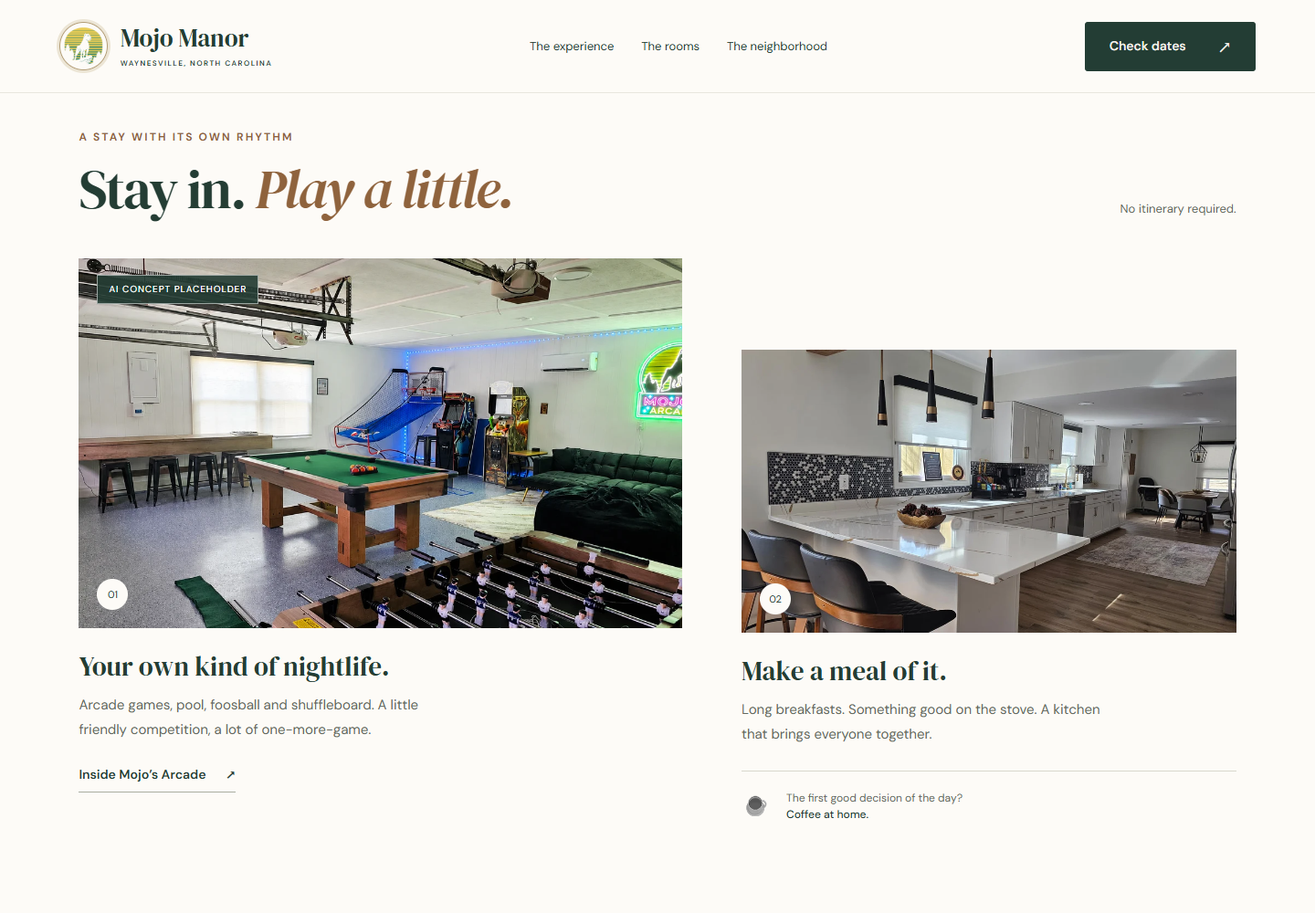
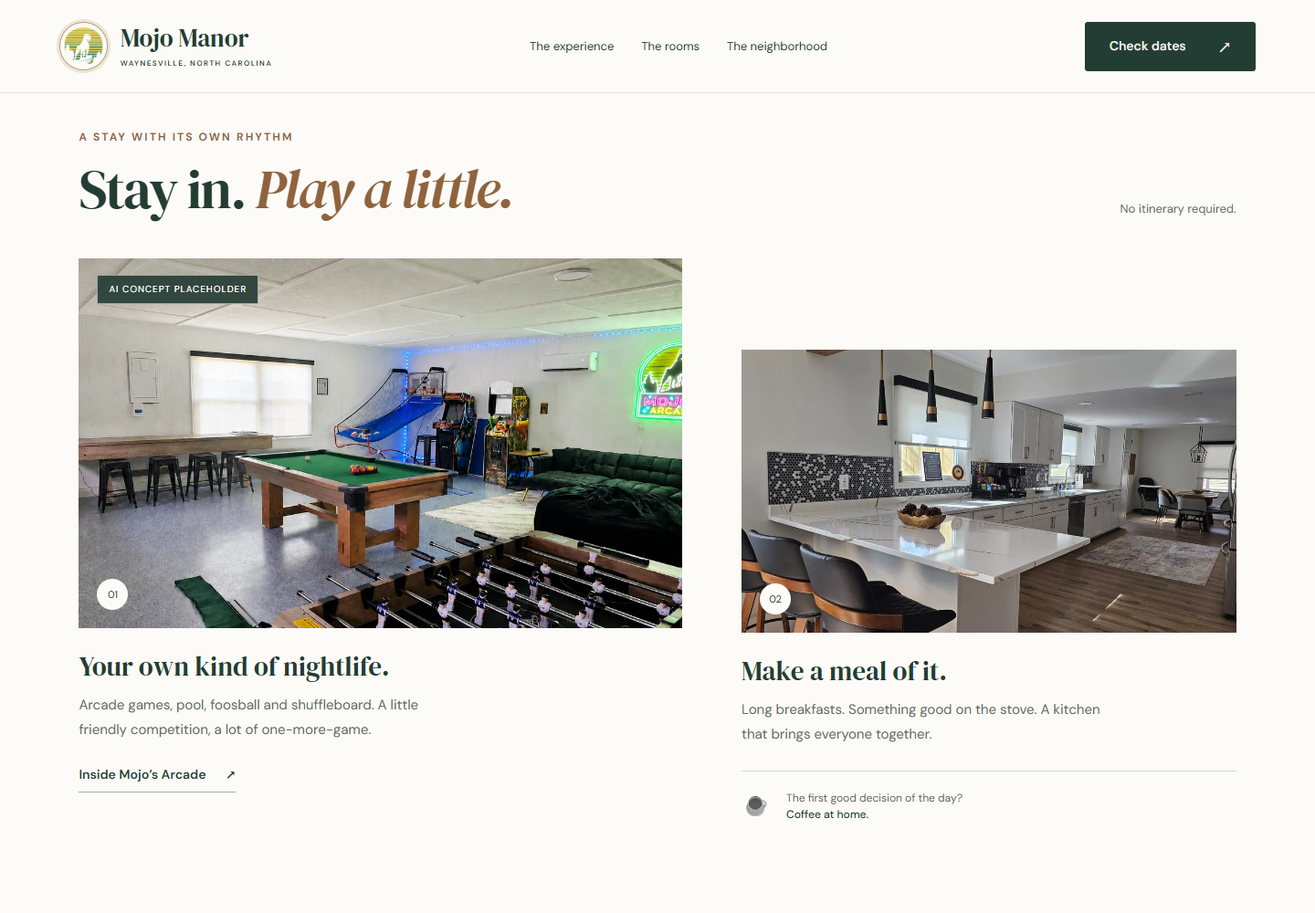
design: remove ceiling opener hardware from arcade concept

diff --git a/index.html b/index.html
@@ -26,7 +26,7 @@
 <section class="hero" id="hero"><div class="hero-copy"><p class="eyebrow"><span class="tiny-star">✳</span> YOUR WAYNESVILLE GETAWAY</p><h1>Mountain days.<br><em>Manor nights.</em></h1><p class="hero-description">A modern cabin house with a playful soul.<br>One mile from downtown. A world of good times at home.</p><button class="button button-dark hero-cta" data-book>Find your dates <span aria-hidden="true">↗</span></button><a class="text-link" href="#gallery">Take a look around <span aria-hidden="true">↓</span></a><div class="hero-note"><span class="line-art" aria-hidden="true">⌂</span><p>ALL YOURS, ALL STAY.<br><strong>4 bedrooms · up to 10 guests</strong></p></div></div><div class="hero-visual"><img class="hero-image" src="Images/redesign/living-1200.webp" srcset="Images/redesign/living-640.webp 640w, Images/redesign/living-1200.webp 1200w, Images/redesign/living-1600.webp 1600w" sizes="(max-width: 850px) 100vw, 61vw" width="1600" height="900" alt="The real front living room at Mojo Manor, with cream sectional, green chairs and wood-slat wall" fetchpriority="high" decoding="async"><span class="image-index">01 / A LITTLE MORE YOU</span><button class="photo-pill" data-gallery-open="0"><span aria-hidden="true">▦</span> Explore the house</button><span class="vertical-note">A HOME WITH PERSONALITY</span></div></section>
 <div class="facts-strip" aria-label="Property highlights"><span><b>4</b> BEDROOMS</span><span><b>2.5</b> BATHROOMS</span><span><b>10</b> GUESTS</span><span><b>1 mi</b> TO DOWNTOWN</span><span class="dog-fact"><img src="Images/redesign/mojo-crest.png" alt="" width="32" height="32"> DOGS WELCOME</span></div>
 <section class="intro section-wrap" id="the-house"><p class="eyebrow">THE BEST OF BOTH WORLDS</p><div class="intro-grid"><h2>Out there, the mountains.<br><em>In here, your people.</em></h2><div><p>Head out for a mountain day. Wander into town for dinner. Come back to a home where the evening is its own adventure.</p><p>Two living rooms, a kitchen made for gathering, your own arcade and a backyard full of possibilities. Thoughtfully renovated. Wonderfully easy to settle into.</p></div></div></section>
-<section class="experience section-wrap" id="experience"><div class="section-heading"><div><p class="eyebrow">A STAY WITH ITS OWN RHYTHM</p><h2>Stay in. <em>Play a little.</em></h2></div><span class="section-aside">No itinerary required.</span></div><div class="experience-grid"><article class="experience-feature"><div class="image-frame"><img class="" src="Images/redesign/arcade-concept-1200.webp" srcset="Images/redesign/arcade-concept-640.webp 640w, Images/redesign/arcade-concept-1200.webp 1200w, Images/redesign/arcade-concept-1600.webp 1600w" sizes="(max-width: 700px) 100vw, 55vw" width="1600" height="900" alt="AI concept placeholder: the real arcade with its pool table uncovered and ready for play" loading="lazy" decoding="async"><span class="photo-number">01</span><span class="concept-label" style="left:20px;top:18px">AI CONCEPT PLACEHOLDER</span></div><div class="feature-caption"><h3>Your own kind of nightlife.</h3><p>Arcade games, pool, foosball and shuffleboard. A little friendly competition, a lot of one-more-game.</p><button class="text-link" data-gallery-open="10">Inside Mojo’s Arcade <span aria-hidden="true">↗</span></button></div></article><article class="experience-secondary"><div class="image-frame"><img class="" src="Images/redesign/kitchen-1200.webp" srcset="Images/redesign/kitchen-640.webp 640w, Images/redesign/kitchen-1200.webp 1200w, Images/redesign/kitchen-1600.webp 1600w" sizes="(max-width: 700px) 100vw, 55vw" width="1600" height="900" alt="Mojo Manor kitchen island with quartz worktop and pendant lights" loading="lazy" decoding="async"><span class="photo-number">02</span></div><div class="feature-caption"><h3>Make a meal of it.</h3><p>Long breakfasts. Something good on the stove. A kitchen that brings everyone together.</p></div><div class="coffee-note"><span aria-hidden="true">☕</span><p>The first good decision of the day?<br><strong>Coffee at home.</strong></p></div></article></div></section>
+<section class="experience section-wrap" id="experience"><div class="section-heading"><div><p class="eyebrow">A STAY WITH ITS OWN RHYTHM</p><h2>Stay in. <em>Play a little.</em></h2></div><span class="section-aside">No itinerary required.</span></div><div class="experience-grid"><article class="experience-feature"><div class="image-frame"><img class="" src="Images/redesign/arcade-concept-v2-1200.webp" srcset="Images/redesign/arcade-concept-v2-640.webp 640w, Images/redesign/arcade-concept-v2-1200.webp 1200w, Images/redesign/arcade-concept-v2-1600.webp 1600w" sizes="(max-width: 700px) 100vw, 55vw" width="1600" height="900" alt="AI concept placeholder: the real arcade with its pool table uncovered and garage-door ceiling hardware digitally removed" loading="lazy" decoding="async"><span class="photo-number">01</span><span class="concept-label" style="left:20px;top:18px">AI CONCEPT PLACEHOLDER</span></div><div class="feature-caption"><h3>Your own kind of nightlife.</h3><p>Arcade games, pool, foosball and shuffleboard. A little friendly competition, a lot of one-more-game.</p><button class="text-link" data-gallery-open="10">Inside Mojo’s Arcade <span aria-hidden="true">↗</span></button></div></article><article class="experience-secondary"><div class="image-frame"><img class="" src="Images/redesign/kitchen-1200.webp" srcset="Images/redesign/kitchen-640.webp 640w, Images/redesign/kitchen-1200.webp 1200w, Images/redesign/kitchen-1600.webp 1600w" sizes="(max-width: 700px) 100vw, 55vw" width="1600" height="900" alt="Mojo Manor kitchen island with quartz worktop and pendant lights" loading="lazy" decoding="async"><span class="photo-number">02</span></div><div class="feature-caption"><h3>Make a meal of it.</h3><p>Long breakfasts. Something good on the stove. A kitchen that brings everyone together.</p></div><div class="coffee-note"><span aria-hidden="true">☕</span><p>The first good decision of the day?<br><strong>Coffee at home.</strong></p></div></article></div></section>
 <section class="evening" id="after-dark"><div class="evening-header section-wrap"><div><p class="eyebrow">WHEN THE DAY WINDS DOWN</p><h2>The best plans<br><em>are back at the Manor.</em></h2></div><div class="evening-switch" role="group" aria-label="Choose an evening scene"><button class="active" data-evening="hotTub" aria-pressed="true">The hot tub</button><button data-evening="firepit" aria-pressed="false">By the fire</button></div></div><div class="evening-photo"><img id="evening-image" src="Images/redesign/hotTub-concept-1600.webp" width="1600" height="900" loading="lazy" alt="AI concept placeholder: the existing hot tub opened, with blue underwater lighting and jets running"><span class="concept-label">AI CONCEPT PLACEHOLDER</span><div class="evening-caption"><span id="evening-number">03 / AFTER DARK</span><p id="evening-copy">Blue water. Warm lights.<br>Absolutely nowhere to be.</p></div><p class="photo-disclosure" id="evening-disclosure">Edited from the actual property photo. Open water and jets are generated; the owner confirms blue lighting.</p></div></section>
 <section class="gallery-section section-wrap" id="gallery"><div class="section-heading"><div><p class="eyebrow">MAKE YOURSELF AT HOME</p><h2>A house worth <em>getting to know.</em></h2></div><button class="text-link" data-gallery-open="0">Explore 19 real photos <span aria-hidden="true">↗</span></button></div><div class="editorial-gallery"><button class="gallery-main" data-gallery-open="2" aria-label="Open rear family room photo"><img class="" src="Images/redesign/family-1200.webp" srcset="Images/redesign/family-640.webp 640w, Images/redesign/family-1200.webp 1200w, Images/redesign/family-1600.webp 1600w" sizes="(max-width: 700px) 100vw, 55vw" width="1600" height="900" alt="The rear family room with fireplace, television and deck access" loading="lazy" decoding="async"><span>The other living room <i>↗</i></span></button><button data-gallery-open="13" aria-label="Open fenced backyard photo"><img class="" src="Images/redesign/yard-1200.webp" srcset="Images/redesign/yard-640.webp 640w, Images/redesign/yard-1200.webp 1200w, Images/redesign/yard-1600.webp 1600w" sizes="(max-width: 700px) 100vw, 55vw" width="1600" height="900" alt="The real fenced backyard with playset and hammock" loading="lazy" decoding="async"><span>A backyard for the whole crew <i>↗</i></span></button><button data-gallery-open="17" aria-label="Open porch photo"><img class="" src="Images/redesign/porch-1200.webp" srcset="Images/redesign/porch-640.webp 640w, Images/redesign/porch-1200.webp 1200w, Images/redesign/porch-1600.webp 1600w" sizes="(max-width: 700px) 100vw, 55vw" width="1600" height="900" alt="Mojo Manor porch with rocking chairs and welcome sign" loading="lazy" decoding="async"><span>Your welcome to Waynesville <i>↗</i></span></button></div><div class="amenity-line"><span>Private hot tub</span><span>Fenced backyard</span><span>Wi-Fi & Smart TVs</span><span>Washer & dryer</span><span>Driveway parking</span></div><details class="amenities-details"><summary>All the little things, included <span>+</span></summary><div><p><strong>For gathering</strong><br>Two living rooms, stocked kitchen, coffee station and dining space.</p><p><strong>For playing</strong><br>Arcade games, pool, foosball, shuffleboard, putting green, backyard games and a children’s playset.</p><p><strong>For settling in</strong><br>Linens, towels, laundry, Wi-Fi and Smart TVs. Ask us about children’s equipment and pet provisions.</p></div></details></section>
 <section class="rooms-section" id="rooms"><div class="section-wrap"><div class="section-heading"><div><p class="eyebrow">FOUR ROOMS. FOUR PERSONALITIES.</p><h2>Good nights. <em>Great mornings.</em></h2></div><p class="section-aside">All four bedrooms are upstairs.<br>Up to 10 guests across the home.</p></div><div class="room-grid"><article class="room-card"><button data-gallery-open="5" aria-label="View The Royal Suite photo"><img class="" src="Images/redesign/suite-1200.webp" srcset="Images/redesign/suite-640.webp 640w, Images/redesign/suite-1200.webp 1200w, Images/redesign/suite-1600.webp 1600w" sizes="(max-width: 700px) 100vw, 55vw" width="1600" height="900" alt="The Royal Suite at Mojo Manor" loading="lazy" decoding="async"><span class="room-number">01</span><span class="room-open" aria-hidden="true">↗</span></button><h3>The Royal Suite</h3><p class="bed-type">King bed</p><p>Private ensuite with walk-in shower</p></article><article class="room-card"><button data-gallery-open="6" aria-label="View Bigfoots Hideaway photo"><img class="" src="Images/redesign/bigfoot-1200.webp" srcset="Images/redesign/bigfoot-640.webp 640w, Images/redesign/bigfoot-1200.webp 1200w, Images/redesign/bigfoot-1600.webp 1600w" sizes="(max-width: 700px) 100vw, 55vw" width="1600" height="900" alt="Bigfoot’s Hideaway at Mojo Manor" loading="lazy" decoding="async"><span class="room-number">02</span><span class="room-open" aria-hidden="true">↗</span></button><h3>Bigfoot’s Hideaway</h3><p class="bed-type">King bed</p><p>Shared upstairs hall bathroom</p></article><article class="room-card"><button data-gallery-open="7" aria-label="View Mountain Bunkhouse photo"><img class="" src="Images/redesign/bunk-1200.webp" srcset="Images/redesign/bunk-640.webp 640w, Images/redesign/bunk-1200.webp 1200w, Images/redesign/bunk-1600.webp 1600w" sizes="(max-width: 700px) 100vw, 55vw" width="1600" height="900" alt="Mountain Bunkhouse at Mojo Manor" loading="lazy" decoding="async"><span class="room-number">03</span><span class="room-open" aria-hidden="true">↗</span></button><h3>Mountain Bunkhouse</h3><p class="bed-type">Twin-over-double bunk</p><p>Mountain mural & LED lights</p></article><article class="room-card"><button data-gallery-open="8" aria-label="View The Gatsby Room photo"><img class="" src="Images/redesign/gatsby-1200.webp" srcset="Images/redesign/gatsby-640.webp 640w, Images/redesign/gatsby-1200.webp 1200w, Images/redesign/gatsby-1600.webp 1600w" sizes="(max-width: 700px) 100vw, 55vw" width="1600" height="900" alt="The Gatsby Room at Mojo Manor" loading="lazy" decoding="async"><span class="room-number">04</span><span class="room-open" aria-hidden="true">↗</span></button><h3>The Gatsby Room</h3><p class="bed-type">Queen bed</p><p>Vanity, art & a little golden glamour</p></article></div><div class="room-footnote"><span>2 full bathrooms upstairs · 1 half bath downstairs</span><a class="text-link" href="rates.html">Stay details & policies <span aria-hidden="true">↗</span></a></div></div></section>

diff --git a/review/index.html b/review/index.html
@@ -6,9 +6,9 @@
 <div class="why-panel" aria-live="polite"><span id="why-number">01</span><div><h2 id="why-title">Let the home make the first impression.</h2><p id="why-copy">The furnished front living room leads. The headline has its own quiet space, and Mojo becomes a small signature crest instead of passing across the copy.</p></div><p class="expected" id="why-benefit">Why: guests can see the quality of the actual house and understand its location before deciding to explore.</p></div>
 <div class="frames"><article class="frame-panel"><div class="frame-label"><span><b>BEFORE</b> Current-source snapshot</span><a href="before.html" target="_blank" rel="noopener">Open ↗</a></div><div class="frame-window"><iframe id="before-frame" src="before.html" title="Mojo Manor before redesign" loading="eager"></iframe></div></article><article class="frame-panel"><div class="frame-label after"><span><b>AFTER</b> Working redesign</span><a href="/" target="_blank" rel="noopener">Open ↗</a></div><div class="frame-window"><iframe id="after-frame" src="/" title="Mojo Manor proposed complete homepage" loading="eager"></iframe></div></article></div><p class="compare-tip">Choose a section to line up the comparison. Each pane scrolls independently; use “Open” to explore at full size. The before view uses the source captured at the start of this redesign.</p></section>
 <section class="change-log"><div class="section-title"><p class="kicker">WHAT CHANGED, AND WHY</p><h2>A more considered guest journey.</h2></div><div class="change-grid"><article><span>01 / DESIGN</span><h3>More room for the house.</h3><p>Warm ivory, deep green, bronze and editorial typography. Fewer competing shapes and repeated grids. A small, gently responsive Mojo crest keeps the brand’s personality.</p><p class="why">The intended effect: a coherent boutique-hospitality impression, with the real property doing most of the work.</p></article><article><span>02 / PHOTOGRAPHY</span><h3>Give every image a job.</h3><p>L017 leads; the kitchen island supports; bedroom choices stay. A 19-photo opening tour groups living, bedrooms, play, outdoors and arrival. Original property images remain accessible.</p><p class="why">The intended effect: faster understanding of the stay, fewer weak repeats and a more truthful sense of the house.</p></article><article><span>03 / BOOKING</span><h3>Dates are always close.</h3><p>Opening-screen, header and mobile booking actions open one date-search window using the existing Lodgify configuration. A direct-provider link remains available if the widget cannot load.</p><p class="why">The intended effect: less scrolling before checking availability. Fees and terms still come from the booking engine.</p></article><article><span>04 / POSITIONING</span><h3>Own the in-town advantage.</h3><p>“Mountain days. Manor nights.” clearly pairs nearby adventures with a home in a residential neighborhood, one mile from downtown. Actual exterior photography establishes the setting.</p><p class="why">The intended effect: attract guests who want both convenience and a memorable house, with expectations that match arrival.</p></article><article><span>05 / SEO & RELIABILITY</span><h3>A clearer, healthier foundation.</h3><p>Updated title, description and share image; meaningful headings, real image elements, responsive sizes, working gallery sources and an accurate guide-page schema. Existing article URLs and GVR redirect remain.</p><p class="why">The intended effect: improve content clarity and image delivery. This review build remains noindex and has not changed Google’s live results.</p></article><article><span>06 / ACCESSIBILITY</span><h3>Make the elegant version usable.</h3><p>Keyboard-operable photo filters, native dialogs, visible focus, reduced-motion support, mobile navigation and persistent mobile booking access. The heavy spinning-hero libraries are removed from the new homepage.</p><p class="why">The intended effect: fewer distractions and more predictable interactions. No speed score or conversion uplift is claimed.</p></article></div></section>
-<section class="concepts" id="concepts"><div class="section-title"><p class="kicker">THE NEXT PHOTO SHOOT, VISUALIZED</p><h2>Real setting. <i>Generated finishing touches.</i></h2><p>These three edited images are placeholders you requested. They demonstrate the open blue-lit hot tub, a lit fire pit and an uncovered pool table. The unseen spa interior and table details are inferred, so confirm them against the real property before any public use.</p></div><div class="concept-grid">
+<section class="concepts" id="concepts"><div class="section-title"><p class="kicker">THE NEXT PHOTO SHOOT, VISUALIZED</p><h2>Real setting. <i>Generated finishing touches.</i></h2><p>These three edited images are placeholders you requested. They demonstrate the open blue-lit hot tub, a lit fire pit and an uncovered pool table with ceiling hardware removed. The unseen spa interior and table details are inferred, so confirm them against the real property before any public use.</p></div><div class="concept-grid">
 <article><div class="image-compare" style="--reveal:50%"><img src="../Images/redesign/hotTubOriginal-1200.webp" alt="Original property photo with the hot tub covered" loading="lazy"><img class="generated" src="../Images/redesign/hotTub-concept-1200.webp" alt="Generated concept: open hot tub with blue water and running jets" loading="lazy"><span class="original-label">ORIGINAL</span><span class="ai-label">AI CONCEPT</span></div><label>Hot tub · blue lighting + jets<input type="range" min="0" max="100" value="50" aria-label="Reveal hot tub concept"></label><p>Blue lighting is owner-confirmed. Open water, jets and the hidden tub interior are generated.</p></article>
 <article><div class="image-compare" style="--reveal:50%"><img src="../Images/redesign/firepitOriginal-1200.webp" alt="Original unlit fire pit photo" loading="lazy"><img class="generated" src="../Images/redesign/firepit-concept-1200.webp" alt="Generated concept of a contained fire in the existing fire pit" loading="lazy"><span class="original-label">ORIGINAL</span><span class="ai-label">AI CONCEPT</span></div><label>Fire pit · a warmer evening<input type="range" min="0" max="100" value="50" aria-label="Reveal fire pit concept"></label><p>The actual backyard is retained. Flames and their local glow are generated.</p></article>
-<article><div class="image-compare" style="--reveal:50%"><img src="../Images/redesign/arcadeWide-1200.webp" alt="Original arcade photograph with covered pool table" loading="lazy"><img class="generated" src="../Images/redesign/arcade-concept-1200.webp" alt="Generated concept with pool table uncovered and ready for play" loading="lazy"><span class="original-label">ORIGINAL</span><span class="ai-label">AI CONCEPT</span></div><label>Arcade · ready for one more game<input type="range" min="0" max="100" value="50" aria-label="Reveal arcade concept"></label><p>The table surface and balls are inferred. Compare its materials and proportions with the real table.</p></article></div></section>
+<article><div class="image-compare" style="--reveal:50%"><img src="../Images/redesign/arcadeWide-1200.webp" alt="Original arcade photograph with covered pool table" loading="lazy"><img class="generated" src="../Images/redesign/arcade-concept-v2-1200.webp" alt="Generated concept with pool table uncovered and garage-door ceiling hardware digitally removed" loading="lazy"><span class="original-label">ORIGINAL</span><span class="ai-label">AI CONCEPT</span></div><label>Arcade · ready for one more game<input type="range" min="0" max="100" value="50" aria-label="Reveal arcade concept"></label><p>The table surface and balls are inferred. Garage-door opener hardware is digitally removed; confirm the actual ceiling before public use.</p></article></div></section>
 <section class="delivery"><div><p class="kicker">CLEAR ABOUT WHAT IS DONE</p><h2>Built for review.<br><i>Ready for your eye.</i></h2></div><div><p><strong>Implemented in this branch:</strong> complete homepage, responsive styling, photo tour, date-search modal, concept-image treatments, photo repairs and selected SEO fixes.</p><p><strong>Not done:</strong> production deployment, real replacement photography, a confirmed paid-booking test or measured conversion improvements. The review build has noindex and disables homepage analytics outside the real production hostname.</p><a class="open-page" href="IMPLEMENTATION.md">Read the implementation and validation notes ↗</a><p class="small">Author: Codex Astra 6 · branch <code>codex/mojo-manor-homepage-review</code></p></div></section>
 </main><footer>Mojo Manor · Website upgrading review <a href="/">Explore the redesigned homepage ↗</a></footer></body></html>

diff --git a/review/IMAGE-PROMPTS.md b/review/IMAGE-PROMPTS.md
@@ -2,7 +2,7 @@
 
 **Author: Codex Astra 6 · September 5, 2026**
 
-Mode: built-in `image_gen`, three separate edits of inspected real property photographs. No fallback CLI/API was used. Original generated PNGs are saved in this repository; responsive WebPs are the website delivery copies. Each concept is visibly labeled in the homepage/review and is excluded from the real-photo tour.
+Mode: built-in `image_gen`, three initial edits of inspected real property photographs and one arcade-ceiling revision requested by Jake. No fallback CLI/API was used. Original generated PNGs are saved in this repository; responsive WebPs are the website delivery copies. Each concept is visibly labeled in the homepage/review and is excluded from the real-photo tour.
 
 ## Saved assets
 
@@ -10,7 +10,8 @@ Mode: built-in `image_gen`, three separate edits of inspected real property phot
 |---|---|---|
 | Open blue-lit hot tub with jets | [hotTub-concept.png](ai-originals/hotTub-concept.png) | `../Images/redesign/hotTub-concept-{640,1200,1600}.webp` |
 | Lit existing fire pit | [firepit-concept.png](ai-originals/firepit-concept.png) | `../Images/redesign/firepit-concept-{640,1200,1600}.webp` |
-| Uncovered pool table | [arcade-concept.png](ai-originals/arcade-concept.png) | `../Images/redesign/arcade-concept-{640,1200,1600}.webp` |
+| Uncovered pool table, cleared ceiling (current) | [arcade-concept-v2.png](ai-originals/arcade-concept-v2.png) | `../Images/redesign/arcade-concept-v2-{640,1200,1600}.webp` |
+| Original arcade concept (superseded) | [arcade-concept.png](ai-originals/arcade-concept.png) | Retained as revision history; no longer used by the homepage or comparison. |
 
 On Windows these are under `C:/Users/jcphi/OneDrive/Server and IP Optimization/ChatGPT/Website Upgrade/mojo-manor-redesign/`. The original built-in outputs were copied from the current task's `.codex/generated_images` directory; the website has no dependency on that directory.
 
@@ -33,3 +34,12 @@ Edit the actual wide arcade photo. Preserve the room, walls, existing furnishing
 The owner confirmed blue hot-tub lighting. Generated water, jets, unseen spa interior, fire/glow and uncovered pool-table details are inferred. Retaining a real source photo does not guarantee an AI edit preserves every detail; confirm the results against the property and replace with a real shoot before the production package is finalized.
 
 The review's original/concept sliders show the intended change. The hot-tub composition deliberately retains the real railings and grill, even where they obscure part of the spa; a future real shoot from a clearer angle would be stronger.
+
+
+## Arcade revision 2 — ceiling cleanup
+
+**Codex Astra 6:** Jake requested removal of the garage-door opener hardware visible on the ceiling. Built-in image generation edited the existing arcade concept. Both motor units, tracks/rails, springs, support brackets and hanging cords were removed, continuing the white ceiling panels and retaining the round ceiling light and blue LEDs. The original real-photo gallery remains unchanged.
+
+### Final prompt
+
+Use case: precise-object-edit. Edit this existing Mojo Manor arcade concept photograph. Remove ALL garage-door opener hardware from the ceiling: both motor/opener boxes, their long metal tracks and rails, springs, rollers, hanging support brackets, loose cables and dangling release cords. Reconstruct the cleared areas as the same existing white textured ceiling and white ceiling trim, seamlessly continuing the current panel geometry, perspective, texture and lighting. Preserve the round recessed ceiling light and the blue perimeter LED strip. Make no other creative changes. Preserve the room dimensions, camera framing, white paneled walls, windows, existing arcade cabinets and basketball game, Mojo's Arcade neon logo, air conditioner, shuffleboard and stools, green sofa and rug, foosball foreground, pool table with green felt and balls, floor and all other furnishing locations and appearance. Do not add new lights, people, text, amenities or decorations. Keep the same wide photorealistic composition and natural exposure. This remains a review-only AI concept image showing the owner's requested ceiling cleanup; the underlying real-property gallery photos are unchanged.

diff --git a/review/IMPLEMENTATION.md b/review/IMPLEMENTATION.md
@@ -72,3 +72,8 @@ Not measured: field Core Web Vitals, Search Console coverage, current rankings, 
 7. Check the real social share image after deployment; its production URL will not resolve until those assets are released. Recheck mobile and browser performance on the final host.
 
 Other sites' proposed changes remain in the shared site-review handoff. This branch implements Mojo Manor only.
+
+
+## Owner-requested arcade ceiling revision
+
+Codex Astra 6 updated the homepage and original/concept slider to `arcade-concept-v2` after Jake requested removal of the garage-door opener hardware from the ceiling. Both opener units and their rails, springs, brackets and cords were digitally removed. The labeled AI concept retains the white ceiling structure, round light and blue perimeter lighting. Original property-gallery photographs are unchanged. Confirm the real ceiling condition when preparing the production photography. The prior concept remains in versioned assets/history.
